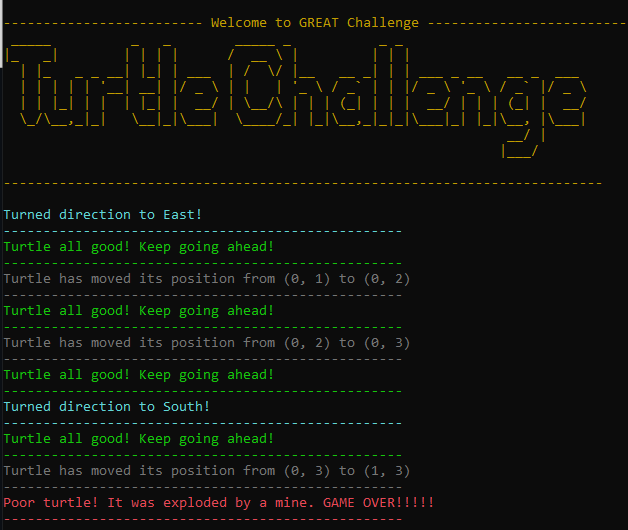
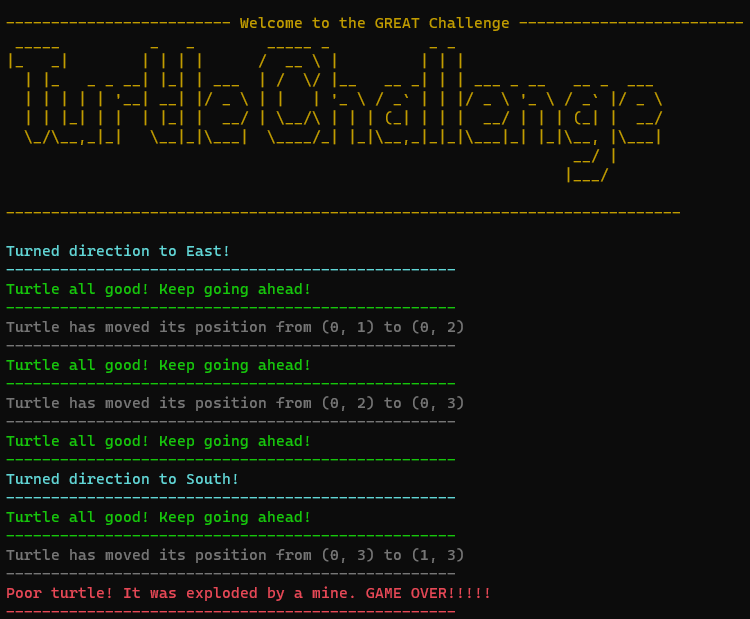
Changed image

Changed region(s): [[0.0, 0.3925, 0.6959, 0.9962], [0.0, 0.0, 0.9984, 0.3019], [0.0, 0.3321, 0.9076, 0.3623]]

diff --git a/src/TurtleChallenge.Console/Program.cs b/src/TurtleChallenge.Console/Program.cs
@@ -13,7 +13,7 @@ if (string.IsNullOrWhiteSpace(args[0]) || string.IsNullOrWhiteSpace(args[1]))
 
 Console.WriteLine();
 Console.ForegroundColor = ConsoleColor.DarkYellow;
-Console.WriteLine("------------------------- Welcome to GREAT Challenge -------------------------");
+Console.WriteLine("------------------------- Welcome to the GREAT Challenge -------------------------");
 Console.WriteLine(Figgle.FiggleFonts.Doom.Render("Turtle Challenge"));
 Console.WriteLine(new string('-', 75));
 Console.ResetColor();
